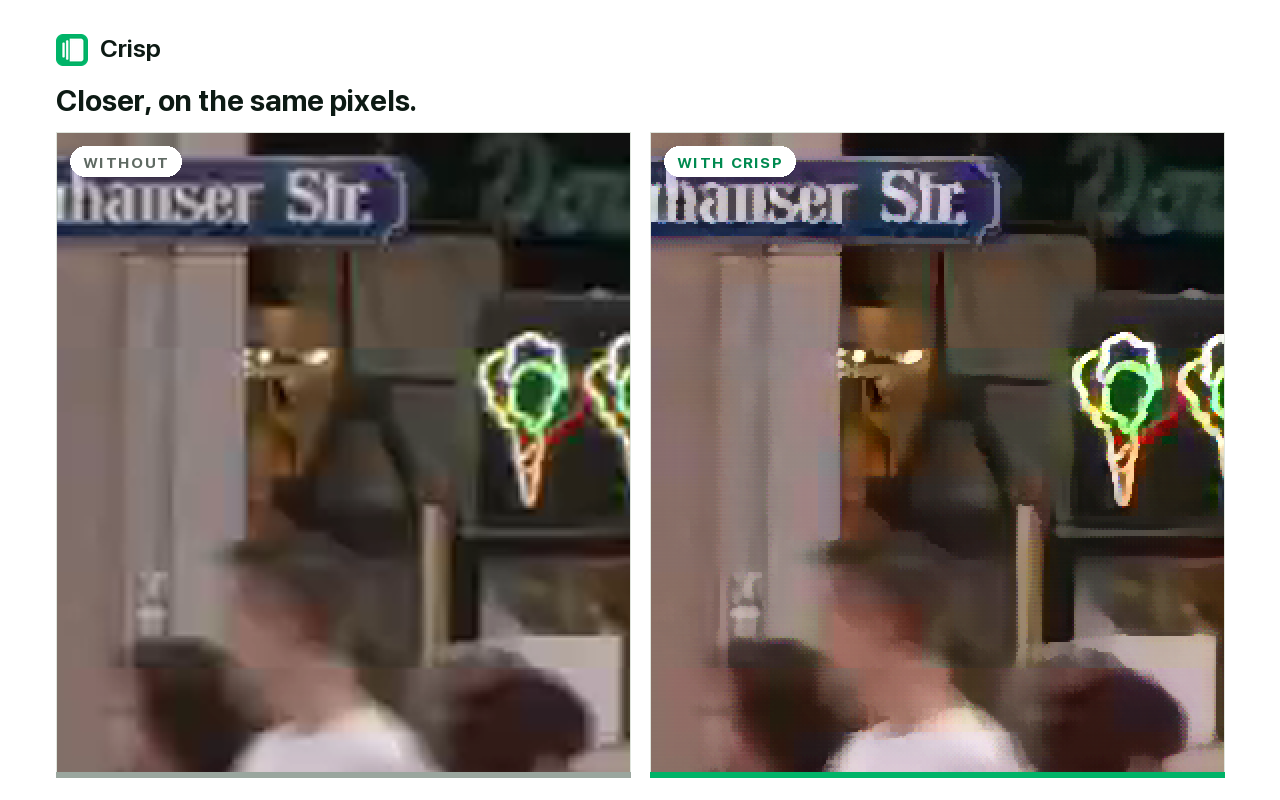
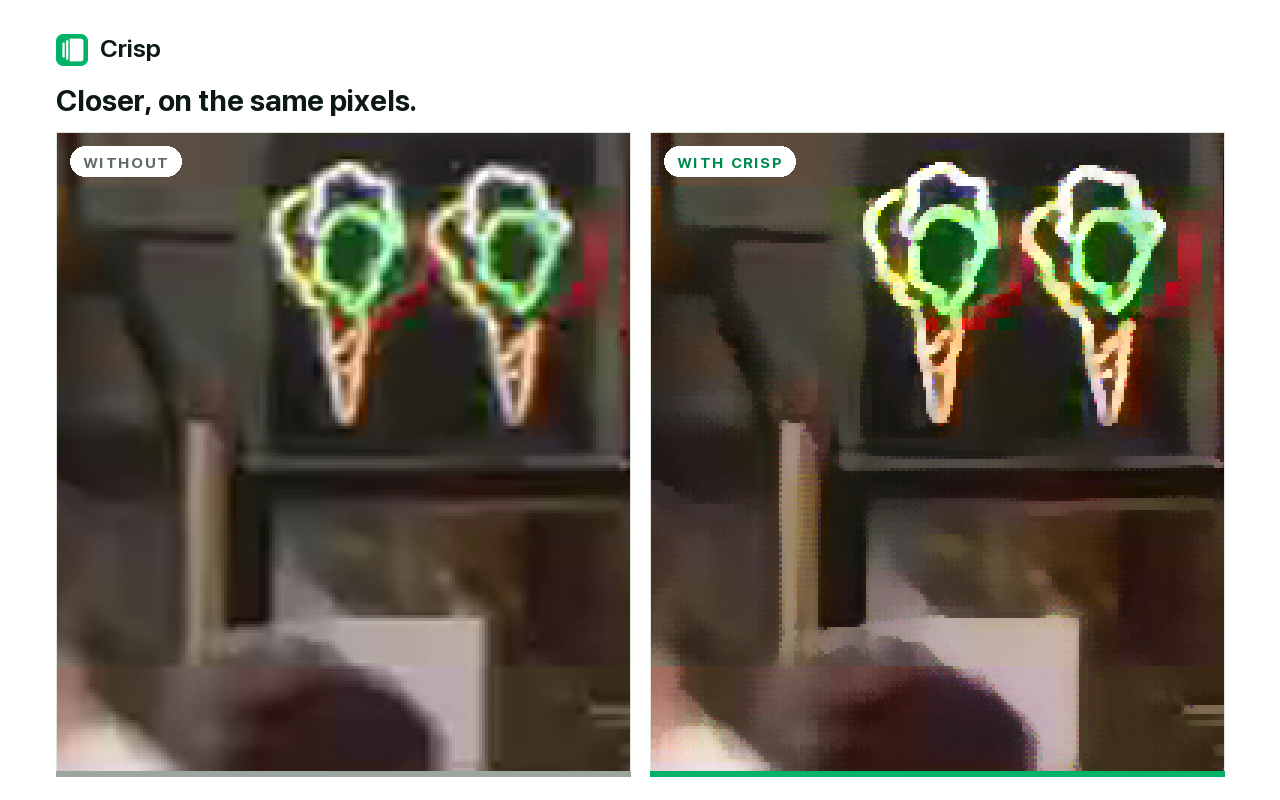
Screenshots: tighter on the cones, simpler motion scene
Shot 5 frames both neon cones instead of the wider street view -- the cone
outlines are where the edge reconstruction is most legible.

Shot 7 moves off the tractor, which is too visually busy to read a difference
in, onto a large simple shape. The frame is chosen by locating the green wipe
divider and picking the one nearest the canvas centre, so both halves are
equally visible rather than one being a sliver.

Verified while checking: the WITHOUT side is pure bicubic. Measured
max|stored_before - bicubic_up(lr)| = 0.00e+00, and sharpen/grade are applied
only to the after path.

diff --git a/marketing/build_store.py b/marketing/build_store.py
@@ -131,7 +131,10 @@ def motion(out):
     d = ImageDraw.Draw(im)
     lockup(im, d)
     d.text((PAD, 82), "It holds up in motion.", font=font(30, 680), fill=INK)
-    src = Image.fromarray(frames[min(22, len(frames) - 1)])
+    # Frame 89 rather than 22: the tractor scene is visually busy, so a viewer
+    # cannot tell what changed. This one is a large simple shape with the wipe
+    # divider near the middle, so both halves are readable at a glance.
+    src = Image.fromarray(frames[min(89, len(frames) - 1)])
     iw = W - 2 * PAD
     ih = int(src.height * iw / src.width)
     im.paste(src.resize((iw, ih), Image.LANCZOS), (PAD, 140))
